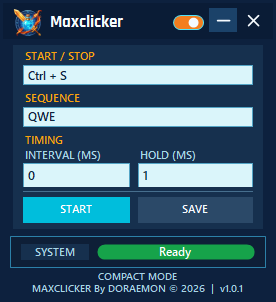
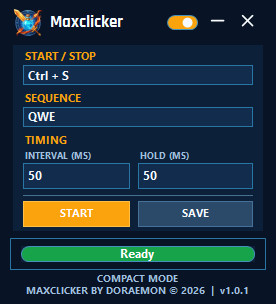
Update download page branding

diff --git a/index.html b/index.html
@@ -90,22 +90,30 @@
     }
 
     .brand-row img {
-      width: 78px;
-      height: 78px;
+      width: 92px;
+      height: 92px;
       object-fit: contain;
       filter: drop-shadow(0 10px 18px rgba(0, 0, 0, 0.24));
     }
 
     .brand-meta {
-      display: grid;
+      display: flex;
+      flex-direction: column;
+      align-items: flex-start;
       gap: 2px;
     }
 
     .brand-kicker {
-      font-size: 12px;
-      letter-spacing: 0.2em;
+      font-family: "Rajdhani", "Segoe UI", Tahoma, sans-serif;
+      font-size: 23px;
+      line-height: 1;
+      letter-spacing: 0.04em;
       text-transform: uppercase;
       color: var(--accent-2);
+      font-weight: 800;
+      text-shadow: 0 0 18px rgba(255, 178, 74, 0.28);
+      display: block;
+      margin-left: 0;
     }
 
     .brand-title {
@@ -114,6 +122,8 @@
       line-height: 0.96;
       font-weight: 800;
       letter-spacing: 0.04em;
+      display: block;
+      margin-left: 0;
     }
 
     .hero-copy {
@@ -127,6 +137,11 @@
       color: var(--muted);
       font-size: 14px;
       line-height: 1.65;
+    }
+
+    .hero-copy strong {
+      color: var(--accent-2);
+      font-weight: 700;
     }
 
     .gallery {
@@ -414,7 +429,7 @@
       body { padding: 14px; }
       .hero-main, .hero-side { padding: 22px 18px; }
       .foot { padding: 16px 20px 18px; }
-      .brand-row img { width: 70px; height: 70px; }
+      .brand-row img { width: 82px; height: 82px; }
     }
   </style>
 </head>
@@ -431,15 +446,15 @@
         </div>
 
         <div class="hero-copy">
-          <p>Download the latest approved Maxclicker release. This page tracks the newest GitHub Release automatically, so published assets stay in sync with version updates.</p>
-          <p>Older builds can be redirected here when an update is required.</p>
+          <p>Maxclicker is a lightweight Auto Potion and Macro Simulator built for MU Online and other MMORPGs where automation is supported.</p>
+          <p>Download the <strong>latest approved release</strong>. Older builds may redirect here when an update is required.</p>
         </div>
 
         <section class="gallery" aria-label="Maxclicker interface gallery">
           <div class="gallery-head">
             <div>
               <div class="gallery-title">Window Modes</div>
-              <div class="gallery-subtitle">Compact mode keeps the tool minimal. Normal mode exposes the full working panel.</div>
+              <div class="gallery-subtitle">Maxclicker offers two window layouts so you can choose the one that works best for your setup.</div>
             </div>
             <div class="gallery-controls">
               <button id="galleryPrev" class="gallery-nav" type="button" aria-label="Show previous screenshot">&#8249;</button>
@@ -457,7 +472,7 @@
                     </div>
                     <figcaption class="gallery-caption">
                       <strong>Normal Window</strong>
-                      <span>Expanded layout with the main controls and status details visible for the full Maxclicker workflow.</span>
+                      <span>The Normal Window provides the complete Maxclicker experience with controls, settings, and status information visible while the application is running.</span>
                     </figcaption>
                   </div>
                   <div class="gallery-slide">
@@ -466,7 +481,7 @@
                     </div>
                     <figcaption class="gallery-caption">
                       <strong>Compact Window</strong>
-                      <span>Minimal controls for a smaller desktop footprint while keeping the core start and stop actions accessible.</span>
+                      <span>The Compact Window keeps the most important controls accessible while reducing the application size for a cleaner desktop.</span>
                     </figcaption>
                   </div>
                 </div>
@@ -713,7 +728,7 @@
 
         galleryAutoSlideTimer = setInterval(() => {
           renderGallery(galleryIndex + 1);
-        }, 5000);
+        }, 3500);
       }
 
       function resetAutoGallery() {